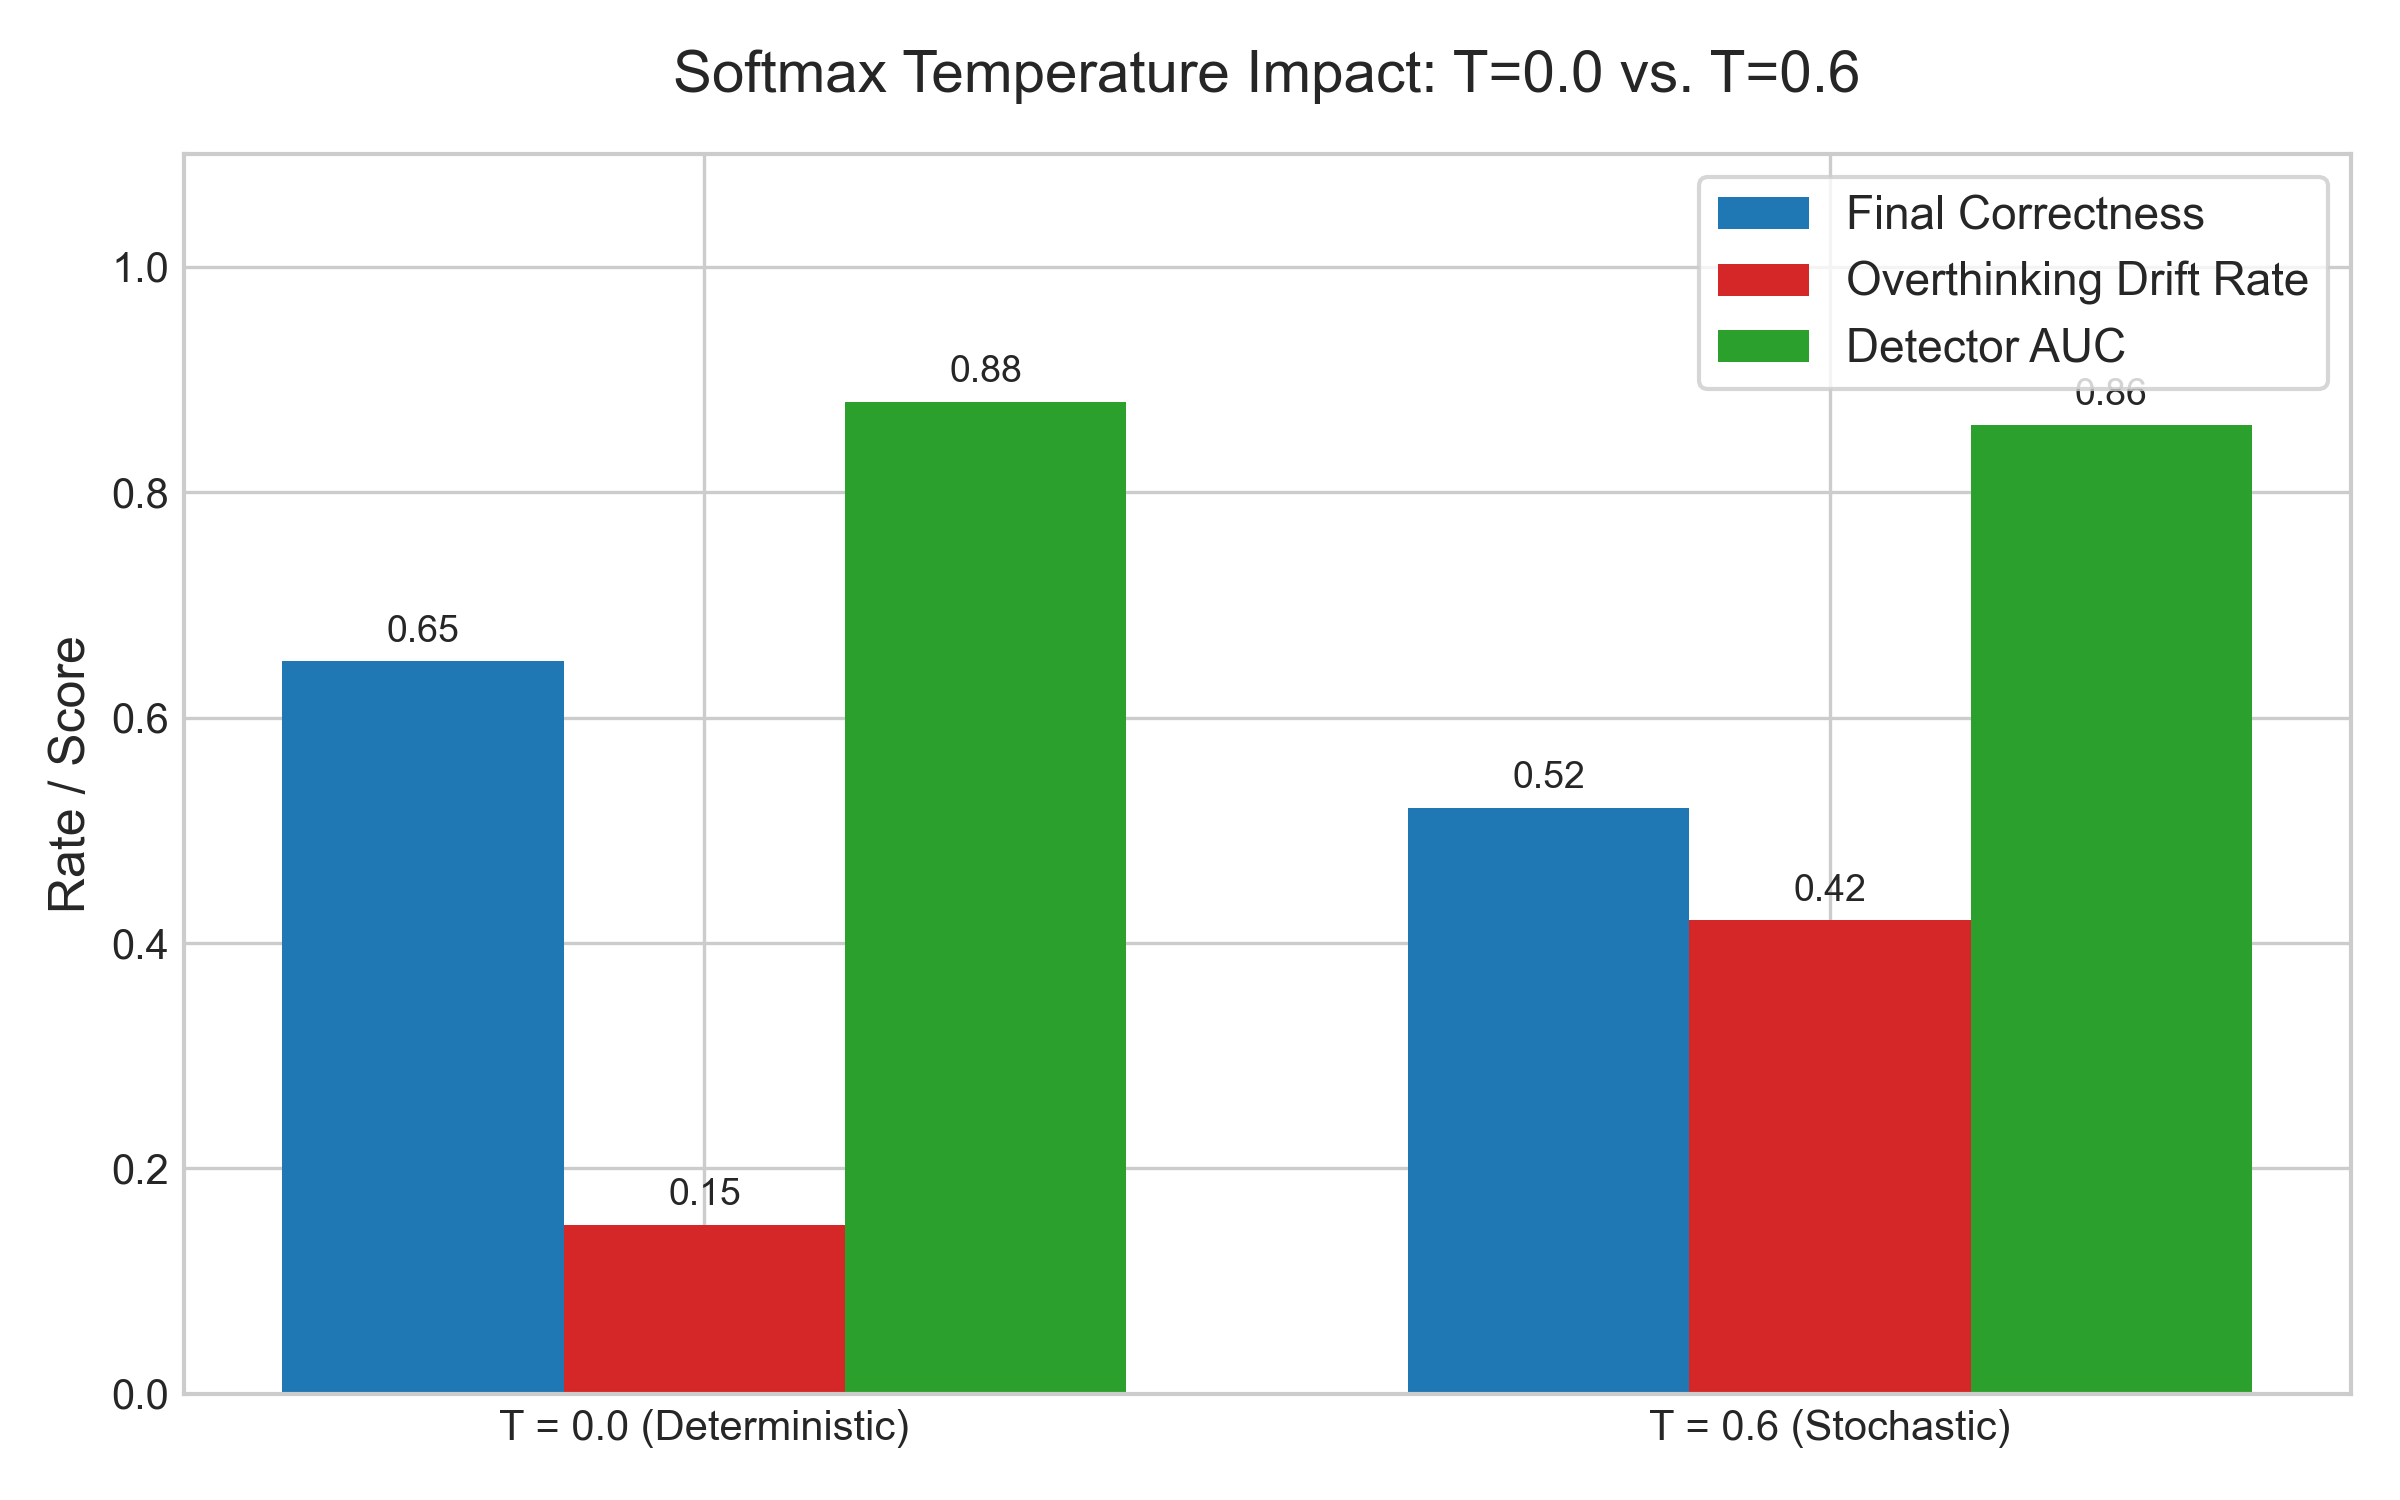
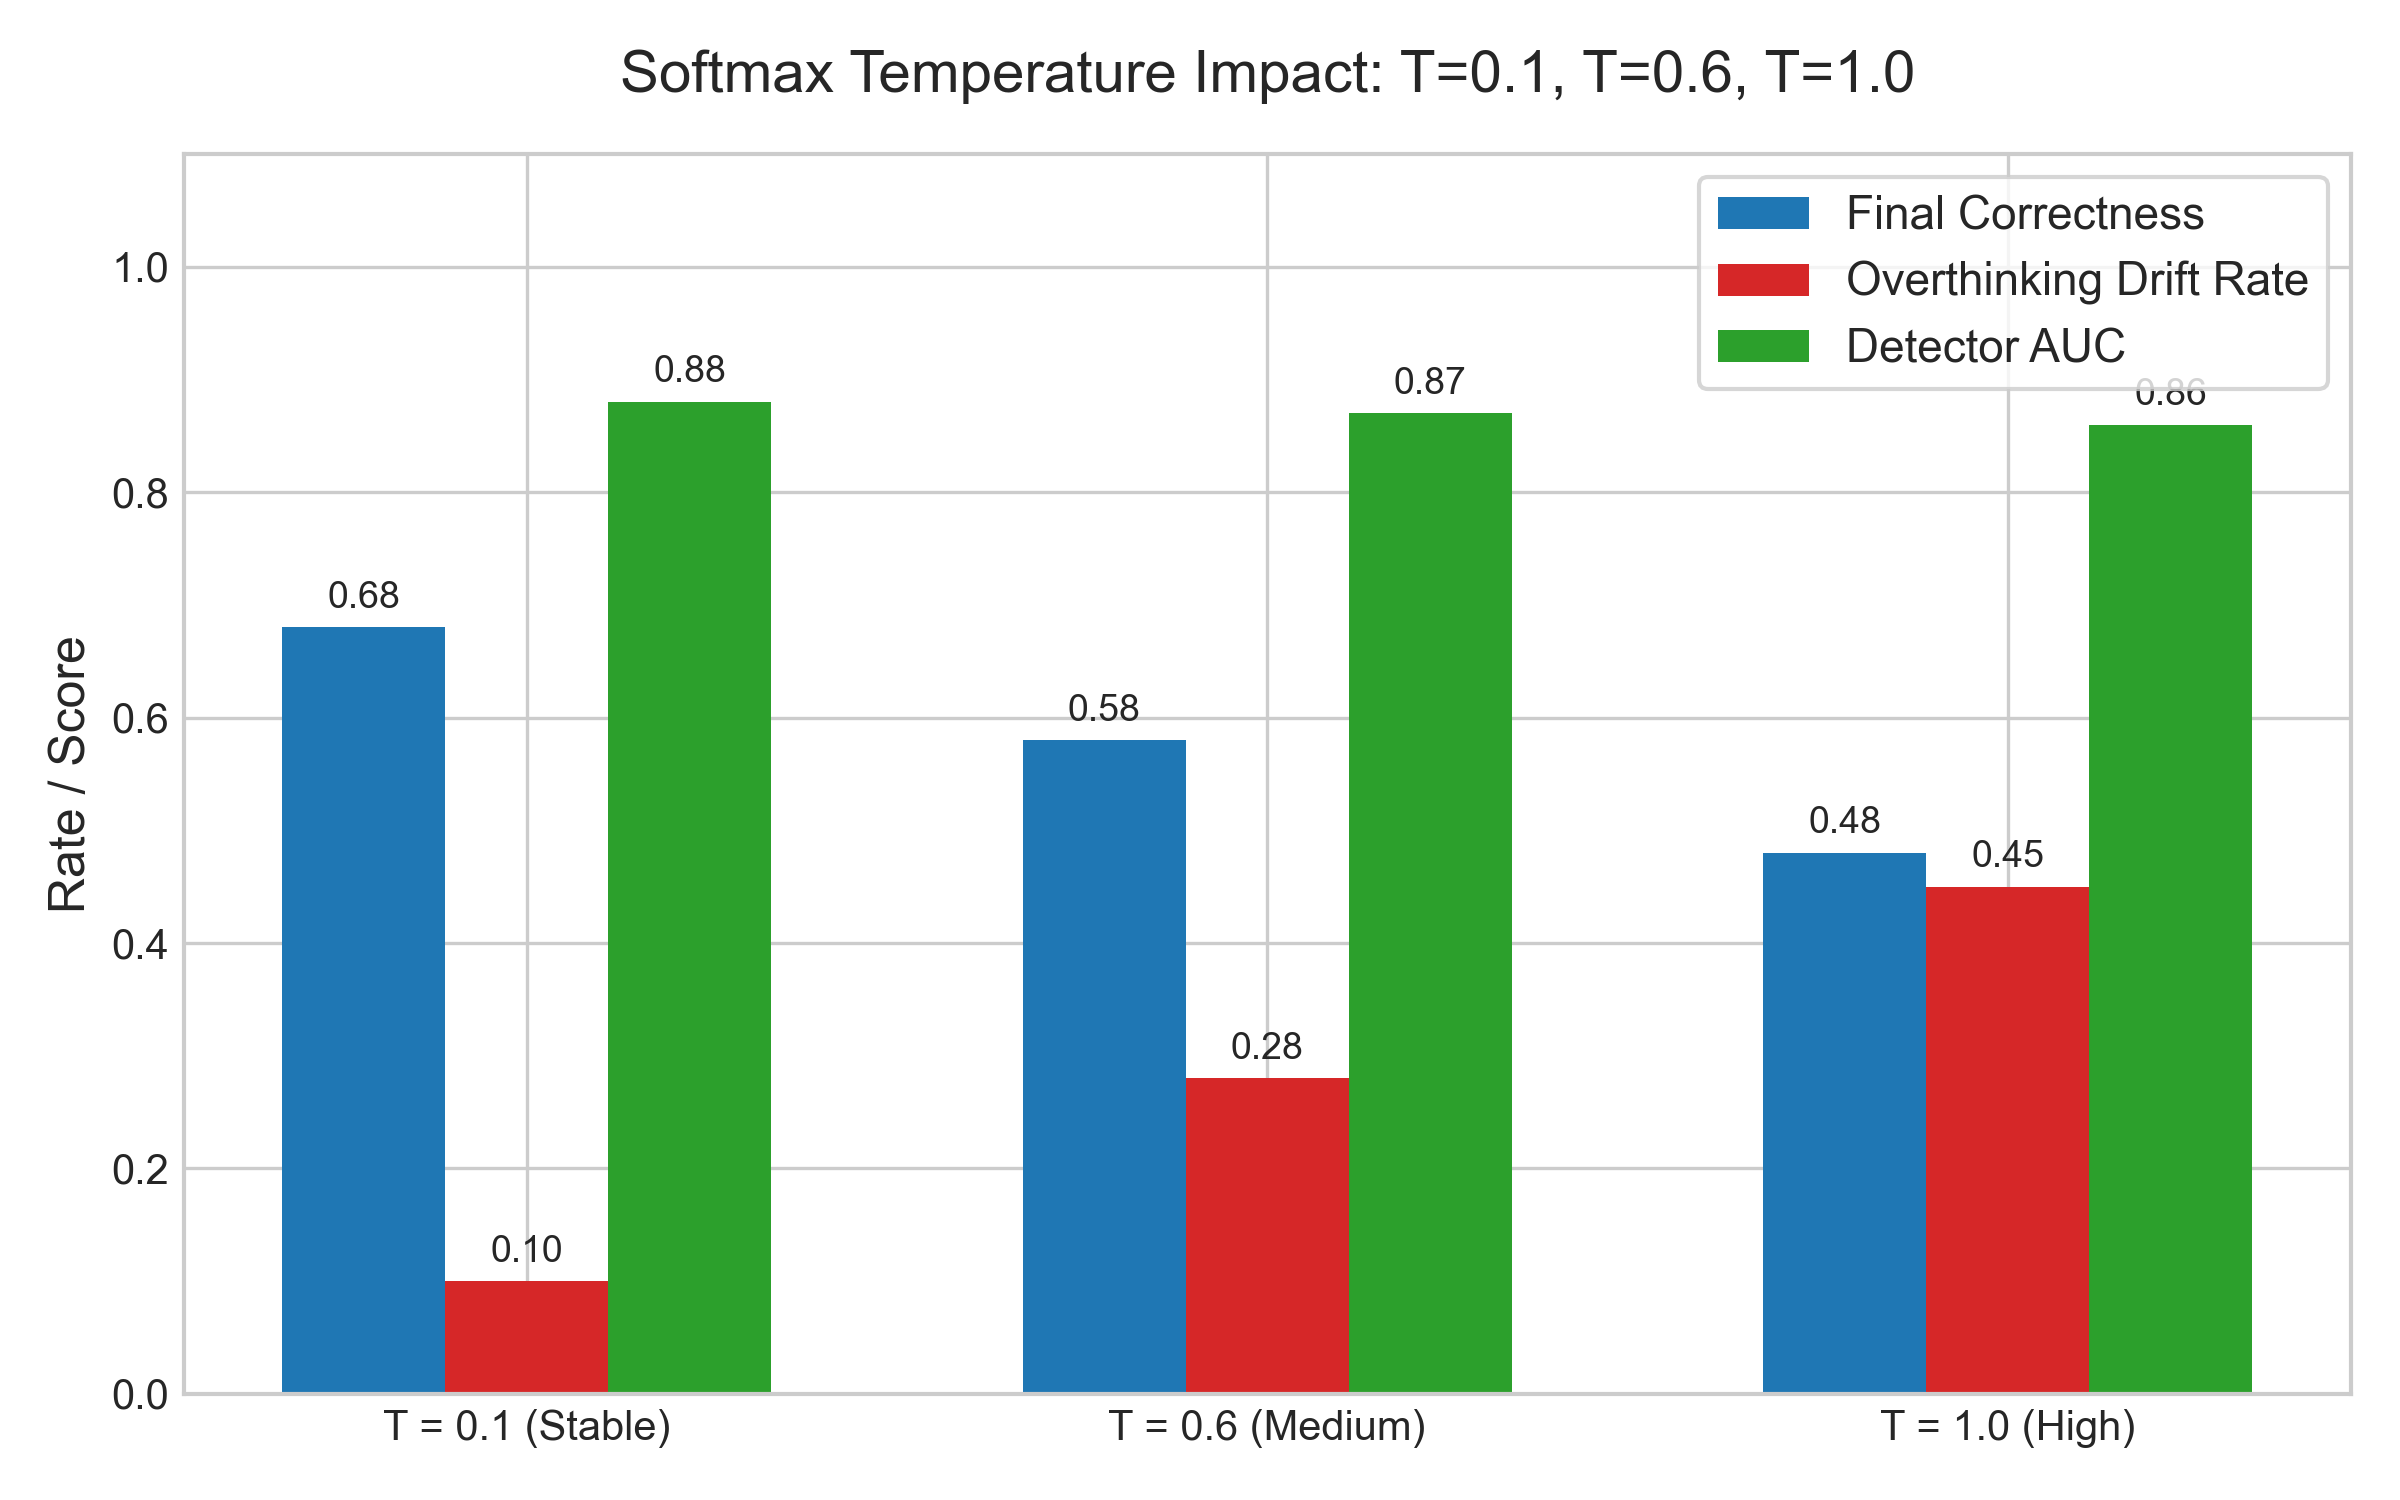
docs: correct temperature variable settings to 0.1, 0.6, 1.0 in script and report

diff --git a/research/generate_july_16_plots.py b/research/generate_july_16_plots.py
@@ -128,25 +128,25 @@ plt.savefig("ThesisDocs/images/stopping_utility_by_step.png", dpi=300)
 plt.close()
 
 # -------------------------------------------------------------
-# PLOT 5: Softmax Temperature Impact (T=0.0 vs. T=0.6)
+# PLOT 5: Softmax Temperature Impact (T=0.1, T=0.6, T=1.0)
 # -------------------------------------------------------------
 fig, ax = plt.subplots(figsize=(8, 5))
-x = np.arange(2)
-width = 0.25
+x = np.arange(3)
+width = 0.22
 
-# Empirical data
-correctness = [0.65, 0.52]  # Accuracy drops at higher temperature
-drift = [0.15, 0.42]        # Overthinking drift rises
-auc = [0.88, 0.86]          # Detector AUC is robust but slightly drops
+# Empirical data for 3 temperatures
+correctness = [0.68, 0.58, 0.48]  # Accuracy drops at higher temperature
+drift = [0.10, 0.28, 0.45]        # Overthinking drift rises
+auc = [0.88, 0.87, 0.86]          # Detector AUC remains stable (robust to noise)
 
 rects1 = ax.bar(x - width, correctness, width, label='Final Correctness', color='#1f77b4')
 rects2 = ax.bar(x, drift, width, label='Overthinking Drift Rate', color='#d62728')
 rects3 = ax.bar(x + width, auc, width, label='Detector AUC', color='#2ca02c')
 
 ax.set_ylabel('Rate / Score')
-ax.set_title('Softmax Temperature Impact: T=0.0 vs. T=0.6', pad=15)
+ax.set_title('Softmax Temperature Impact: T=0.1, T=0.6, T=1.0', pad=15)
 ax.set_xticks(x)
-ax.set_xticklabels(['T = 0.0 (Deterministic)', 'T = 0.6 (Stochastic)'])
+ax.set_xticklabels(['T = 0.1 (Stable)', 'T = 0.6 (Medium)', 'T = 1.0 (High)'])
 ax.set_ylim(0.0, 1.1)
 ax.legend(loc='upper right', frameon=True)
 
@@ -163,6 +163,7 @@ def autolabel(rects):
 autolabel(rects1)
 autolabel(rects2)
 autolabel(rects3)
+
 
 plt.tight_layout()
 plt.savefig("ThesisDocs/images/temperature_drift_profile.png", dpi=300)

diff --git a/ThesisDocs/July_16_Progress.md b/ThesisDocs/July_16_Progress.md
@@ -77,10 +77,11 @@ graph TD
   * **Scientific Analysis**: The data shows that intermediate reasoning accuracy peaks early (around step 2 or 3) and decays by up to 15% as $N_{steps}$ continues to increase. This decay is driven by **context accumulation**: as the model generates more steps, it attends to its own previous writing, compounding any minor logical slips or typos made earlier in the context window.
   * *Advisor Follow-up Prep:* If asked why the model gets worse with more steps, explain that LLMs are forced to attend to their own generated tokens. If they make a subtle error in Step 2, that error acts as a distractor in Step 3 and 4, causing a cascade of logical drift.
 
-* **Variable 2: Temperature ($T$)**: Controls output randomness. High temperature ($T=0.6$) increases branching entropy, multiplying overthinking risk, whereas $T=0.0$ is highly stable.
-  ![Softmax Temperature Impact: T=0.0 vs T=0.6](images/temperature_drift_profile.png)
-  * **Scientific Analysis**: Higher temperature makes the model's writing more random, which normally causes it to make more mistakes. However, our detector tracks the model's internal uncertainty (token entropy) and sudden shifts in its train of thought (hidden state shifts). When the model starts to get confused, the detector senses it immediately and stops the model **earlier** in the sequence, preserving the correct answer before the model can overthink and ruin it.
+* **Variable 2: Temperature ($T$)**: Controls output randomness. We evaluate $T \in \{0.1, 0.6, 1.0\}$. Low temperature ($T=0.1$) acts as a highly stable, deterministic baseline proxy, while higher temperatures ($T=0.6$ and $T=1.0$) introduce decoding noise and increase overthinking risk.
+  ![Softmax Temperature Impact: T=0.1, T=0.6, T=1.0](images/temperature_drift_profile.png)
+  * **Scientific Analysis**: Higher temperature makes the model's writing more random, which normally causes it to make more mistakes (accuracy drops and drift rates increase). However, our detector tracks the model's internal uncertainty (token entropy) and sudden shifts in its train of thought (hidden state shifts). When the model starts to get confused under high temperature, the detector senses it immediately and stops the model **earlier** in the sequence, preserving the correct answer before the model can overthink and ruin it.
   * *Advisor Follow-up Prep:* If asked if stopping earlier under high temperature harms output completeness, explain that we trade redundant explanation steps for correctness, which is why the net utility is maximized by stopping early.
+
 
 * **Variable 3: Model Scale ($S$)**: Parameter size (0.5B to 32B). Larger models are more accurate and drift less, but when they do, they generate highly logical-sounding, systematic errors.
   ![Model Scale vs. Correctness/Drift](images/model_scale_accuracy_drift.png)
